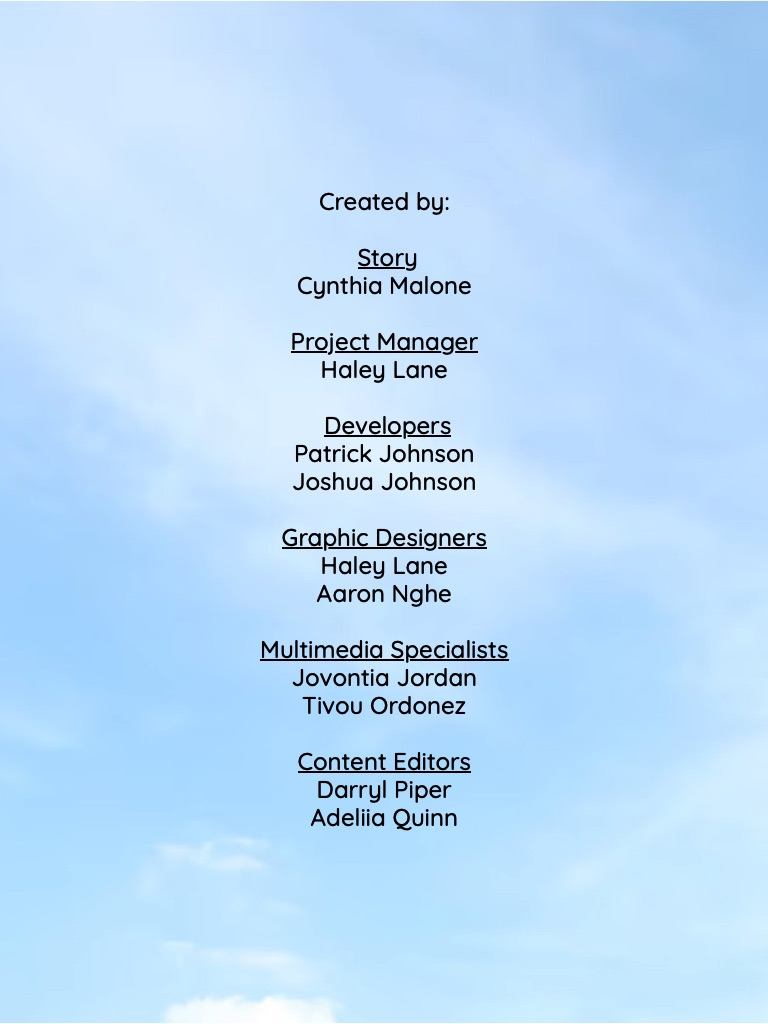
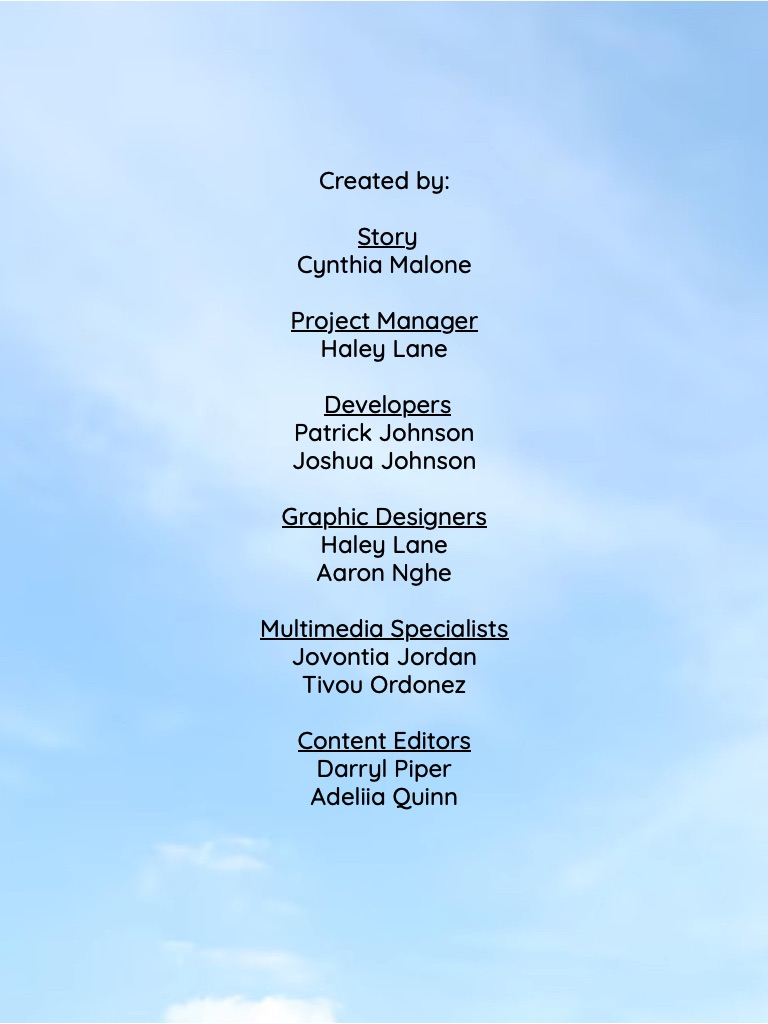
Changes

Changed region(s): [[0.3438, 0.1562, 0.6562, 0.8125]]

diff --git a/Payload/1.1.1/META-INF/com.pubcoder.xreader.meta.js b/Payload/1.1.1/META-INF/com.pubcoder.xreader.meta.js
@@ -1,1 +1,1 @@
-app.rendition.data = {"assets":["assets/images/blue-sky-cloud.jpg","assets/audio/Baseball.mp3","assets/images/obj364_image.jpeg","assets/images/obj442_image.png","assets/images/obj368_image.png","assets/1/thumbnail.png","assets/1/loading.jpg","assets/images/obj286_image.png","assets/2/thumbnail.png","assets/2/loading.jpg","assets/images/obj299_image.jpeg","assets/images/obj301_image.png","assets/images/obj478_image.png","assets/audio/door-open-and-close.mp3","assets/3/thumbnail.png","assets/3/loading.jpg","assets/images/obj306_image.jpeg","assets/images/obj310_image.png","assets/audio/reading.mp3","assets/4/thumbnail.png","assets/4/loading.jpg","assets/images/Fireworks.gif","assets/audio/fireworks.mp3","assets/images/obj389_image.png","assets/5/thumbnail.png","assets/5/loading.jpg","assets/images/obj63_image.png","assets/audio/Playground.mp3","assets/6/thumbnail.png","assets/6/loading.jpg","assets/images/obj68_image.png","assets/audio/RollerBlade.mp3","assets/7/thumbnail.png","assets/7/loading.jpg","assets/images/obj58_image.png","assets/images/notes.gif","assets/images/obj490_image.png","assets/audio/ouside-noises.mp3","assets/8/thumbnail.png","assets/8/loading.jpg","assets/images/Flowers-2.png","assets/9/thumbnail.png","assets/9/loading.jpg","assets/10/thumbnail.png","assets/10/loading.jpg","assets/audio/Cheering.mp3","assets/images/obj124_image.png","assets/11/thumbnail.png","assets/11/loading.jpg","assets/12/thumbnail.png","assets/12/loading.jpg"],"meta":{"author":"pwj11","cover":"assets/images/pubcoder_book_cover.jpg","created":"2024-07-13 05:41:51","description":"Powered by PubCoder","height":1024,"identifier":"97B67C4DD58C2F488F9C17BD612E8D17","language":"en","orientation":"auto","page-progression-direction":"ltr","publisher":"pwj11","rights":"© 2024 pwj11","title":"Bella Bellows","width":768},"options":{"autoplay":true,"enableAnnotations":false,"enableReadaloud":false,"enableSearch":false,"enableSoundtrack":false,"enableThumbnails":true,"navigationArrows":true,"pinchToZoom":false,"soundtrackVolumeDefault":80,"swipeToNavigate":false,"touchToOpenAppMenu":false,"viewportFitCover":true},"pages":[{"id":2,"loadingImageUrl":"assets/1/loading.jpg","number":1,"thumbnailImageUrl":"assets/1/thumbnail.png","title":"1","url":"assets/1/page.xhtml"},{"id":281,"loadingImageUrl":"assets/2/loading.jpg","number":2,"thumbnailImageUrl":"assets/2/thumbnail.png","title":"2","url":"assets/2/page.xhtml"},{"id":298,"loadingImageUrl":"assets/3/loading.jpg","number":3,"thumbnailImageUrl":"assets/3/thumbnail.png","title":"3","url":"assets/3/page.xhtml"},{"id":305,"loadingImageUrl":"assets/4/loading.jpg","number":4,"thumbnailImageUrl":"assets/4/thumbnail.png","title":"4","url":"assets/4/page.xhtml"},{"id":21,"loadingImageUrl":"assets/5/loading.jpg","number":5,"thumbnailImageUrl":"assets/5/thumbnail.png","title":"5","url":"assets/5/page.xhtml"},{"id":19,"loadingImageUrl":"assets/6/loading.jpg","number":6,"thumbnailImageUrl":"assets/6/thumbnail.png","title":"6","url":"assets/6/page.xhtml"},{"id":20,"loadingImageUrl":"assets/7/loading.jpg","number":7,"thumbnailImageUrl":"assets/7/thumbnail.png","title":"7","url":"assets/7/page.xhtml"},{"id":18,"loadingImageUrl":"assets/8/loading.jpg","number":8,"thumbnailImageUrl":"assets/8/thumbnail.png","title":"8","url":"assets/8/page.xhtml"},{"id":23,"loadingImageUrl":"assets/9/loading.jpg","number":9,"thumbnailImageUrl":"assets/9/thumbnail.png","title":"9","url":"assets/9/page.xhtml"},{"id":189,"loadingImageUrl":"assets/10/loading.jpg","number":10,"thumbnailImageUrl":"assets/10/thumbnail.png","title":"10","url":"assets/10/page.xhtml"},{"id":24,"loadingImageUrl":"assets/11/loading.jpg","number":11,"thumbnailImageUrl":"assets/11/thumbnail.png","title":"11","url":"assets/11/page.xhtml"},{"id":428,"loadingImageUrl":"assets/12/loading.jpg","number":12,"thumbnailImageUrl":"assets/12/thumbnail.png","title":"12","url":"assets/12/page.xhtml"}],"toc":[{"pageNumber":1,"title":"Chapter 1","url":"assets/1/page.xhtml"}]};
+app.rendition.data = {"assets":["assets/images/blue-sky-cloud.jpg","assets/audio/Baseball.mp3","assets/images/obj364_image.jpeg","assets/images/obj442_image.png","assets/images/obj368_image.png","assets/1/thumbnail.png","assets/1/loading.jpg","assets/images/obj286_image.png","assets/2/thumbnail.png","assets/2/loading.jpg","assets/images/obj299_image.jpeg","assets/images/obj301_image.png","assets/images/obj478_image.png","assets/audio/door-open-and-close.mp3","assets/3/thumbnail.png","assets/3/loading.jpg","assets/images/obj306_image.jpeg","assets/images/obj310_image.png","assets/audio/reading.mp3","assets/4/thumbnail.png","assets/4/loading.jpg","assets/images/Fireworks.gif","assets/audio/fireworks.mp3","assets/images/obj389_image.png","assets/5/thumbnail.png","assets/5/loading.jpg","assets/images/obj63_image.png","assets/audio/Playground.mp3","assets/6/thumbnail.png","assets/6/loading.jpg","assets/images/obj68_image.png","assets/audio/RollerBlade.mp3","assets/7/thumbnail.png","assets/7/loading.jpg","assets/images/obj58_image.png","assets/images/notes.gif","assets/images/obj490_image.png","assets/audio/ouside-noises.mp3","assets/8/thumbnail.png","assets/8/loading.jpg","assets/images/Flowers-2.png","assets/9/thumbnail.png","assets/9/loading.jpg","assets/10/thumbnail.png","assets/10/loading.jpg","assets/audio/Cheering.mp3","assets/images/obj124_image.png","assets/11/thumbnail.png","assets/11/loading.jpg","assets/12/thumbnail.png","assets/12/loading.jpg"],"meta":{"author":"pwj11","cover":"assets/images/pubcoder_book_cover.jpg","created":"2024-07-13 06:00:13","description":"Powered by PubCoder","height":1024,"identifier":"97B67C4DD58C2F488F9C17BD612E8D17","language":"en","orientation":"auto","page-progression-direction":"ltr","publisher":"pwj11","rights":"© 2024 pwj11","title":"Bella Bellows","width":768},"options":{"autoplay":true,"enableAnnotations":false,"enableReadaloud":false,"enableSearch":false,"enableSoundtrack":false,"enableThumbnails":true,"navigationArrows":true,"pinchToZoom":false,"soundtrackVolumeDefault":80,"swipeToNavigate":false,"touchToOpenAppMenu":false,"viewportFitCover":true},"pages":[{"id":2,"loadingImageUrl":"assets/1/loading.jpg","number":1,"thumbnailImageUrl":"assets/1/thumbnail.png","title":"1","url":"assets/1/page.xhtml"},{"id":281,"loadingImageUrl":"assets/2/loading.jpg","number":2,"thumbnailImageUrl":"assets/2/thumbnail.png","title":"2","url":"assets/2/page.xhtml"},{"id":298,"loadingImageUrl":"assets/3/loading.jpg","number":3,"thumbnailImageUrl":"assets/3/thumbnail.png","title":"3","url":"assets/3/page.xhtml"},{"id":305,"loadingImageUrl":"assets/4/loading.jpg","number":4,"thumbnailImageUrl":"assets/4/thumbnail.png","title":"4","url":"assets/4/page.xhtml"},{"id":21,"loadingImageUrl":"assets/5/loading.jpg","number":5,"thumbnailImageUrl":"assets/5/thumbnail.png","title":"5","url":"assets/5/page.xhtml"},{"id":19,"loadingImageUrl":"assets/6/loading.jpg","number":6,"thumbnailImageUrl":"assets/6/thumbnail.png","title":"6","url":"assets/6/page.xhtml"},{"id":20,"loadingImageUrl":"assets/7/loading.jpg","number":7,"thumbnailImageUrl":"assets/7/thumbnail.png","title":"7","url":"assets/7/page.xhtml"},{"id":18,"loadingImageUrl":"assets/8/loading.jpg","number":8,"thumbnailImageUrl":"assets/8/thumbnail.png","title":"8","url":"assets/8/page.xhtml"},{"id":23,"loadingImageUrl":"assets/9/loading.jpg","number":9,"thumbnailImageUrl":"assets/9/thumbnail.png","title":"9","url":"assets/9/page.xhtml"},{"id":189,"loadingImageUrl":"assets/10/loading.jpg","number":10,"thumbnailImageUrl":"assets/10/thumbnail.png","title":"10","url":"assets/10/page.xhtml"},{"id":24,"loadingImageUrl":"assets/11/loading.jpg","number":11,"thumbnailImageUrl":"assets/11/thumbnail.png","title":"11","url":"assets/11/page.xhtml"},{"id":428,"loadingImageUrl":"assets/12/loading.jpg","number":12,"thumbnailImageUrl":"assets/12/thumbnail.png","title":"12","url":"assets/12/page.xhtml"}],"toc":[{"pageNumber":1,"title":"Chapter 1","url":"assets/1/page.xhtml"}]};

diff --git a/Payload/settings.js b/Payload/settings.js
@@ -1,1 +1,1 @@
-PubViewer.Document.Settings = {"appIdentifier":"3C71310F8A1C4A62B489B686061A92C3","appName":"Bella Bellows","backgroundColor":"#EFEEE8","facingPagesInLandscape":false,"lockOrientation":false,"restoreLatestPage":true};
+PubViewer.Document.Settings = {"appIdentifier":"3A6697B6B95E41C6A95AACB0950E792A","appName":"Bella Bellows","backgroundColor":"#EFEEE8","facingPagesInLandscape":false,"lockOrientation":false,"restoreLatestPage":true};

diff --git a/Payload/1.1.1/OEBPS/assets/12/styles.css b/Payload/1.1.1/OEBPS/assets/12/styles.css
@@ -46,10 +46,10 @@ img#obj429_img {
 div#obj440 {
 position: absolute;
 overflow: hidden;
-top: 187px;
+top: 166px;
 left: 102px;
 width: 565px;
-height: 648px;
+height: 690px;
 opacity: 1;
 z-index: 1;
 display:block;
